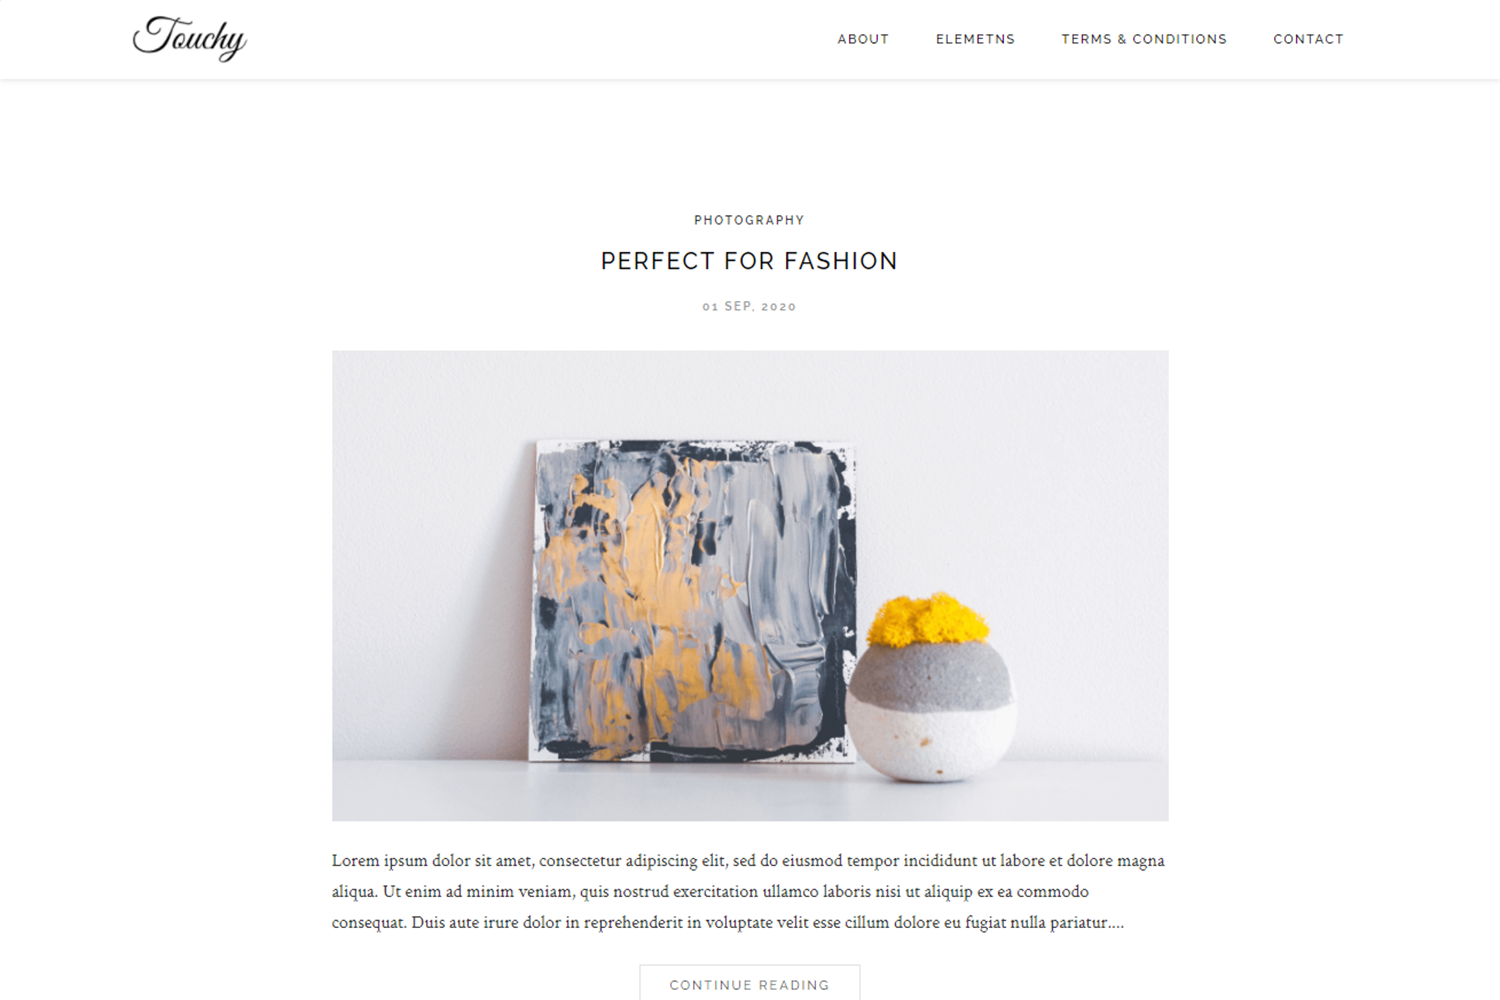
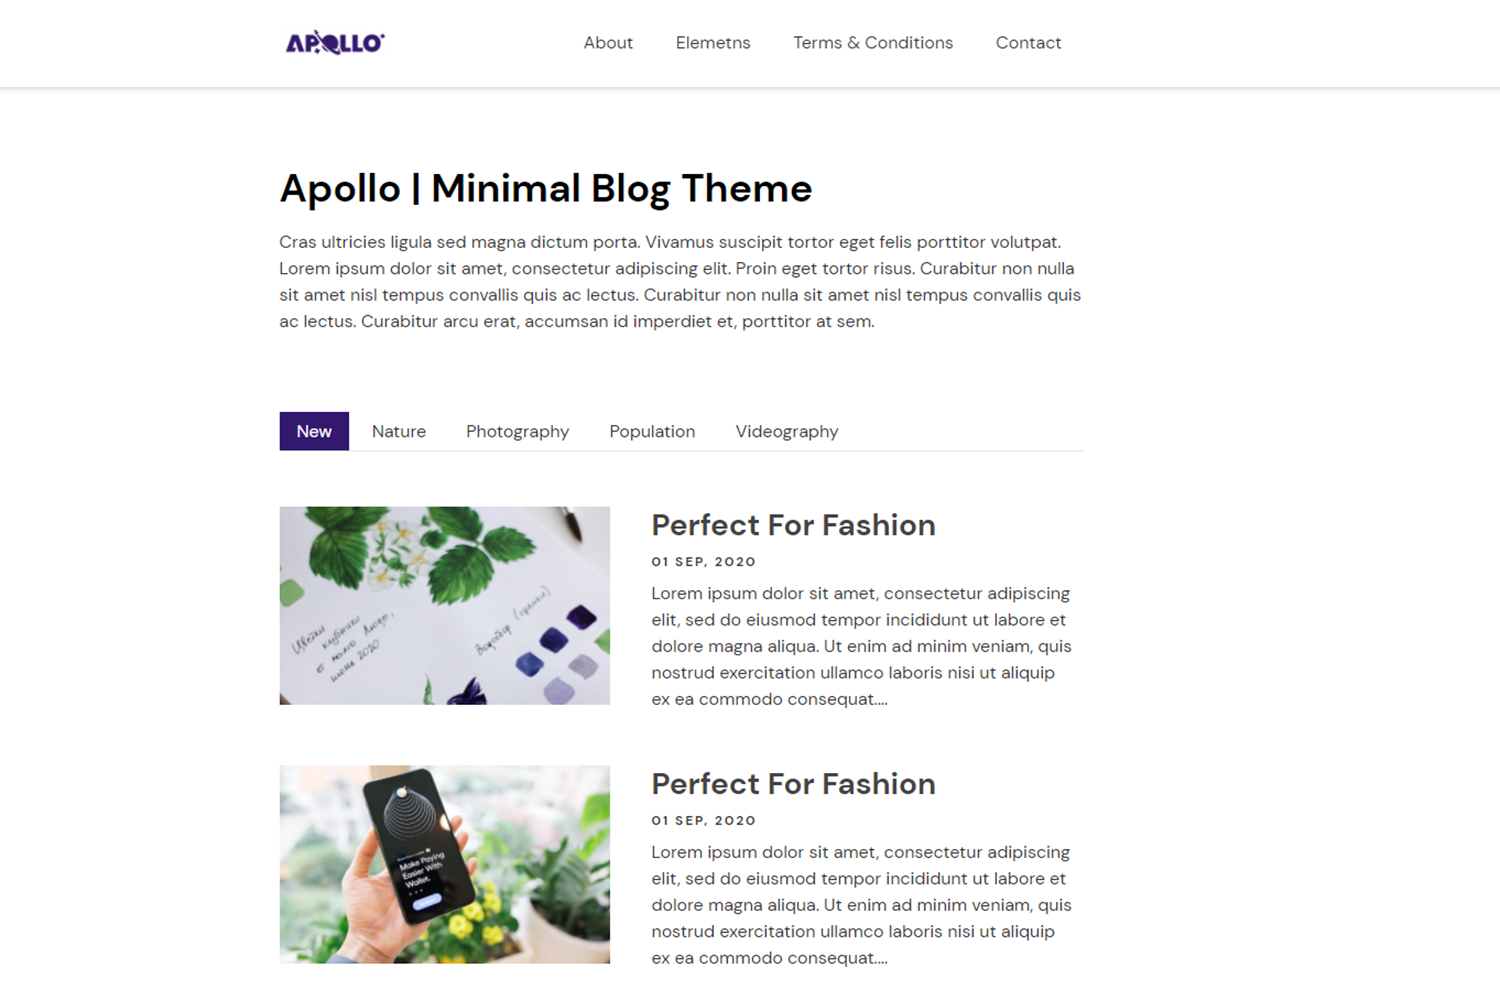
rename everywhere

diff --git a/assets/scss/_post.scss b/assets/scss/_post.scss
@@ -182,7 +182,7 @@ a.post-title:hover {
   li{
     margin: 0 !important;
     a{
-      padding: 5px 10px;
+      padding: 5px 15px;
       display: block;
       border: 1px solid transparent;
       border-bottom: 0;

diff --git a/README.md b/README.md
@@ -1,4 +1,4 @@
-# Touchy Hugo Blog Startup
+# Apollo Hugo Blog Startup
 
 A clean and minimal Hugo blog theme for single author. This theme can showcase your blog in a smooth way. This theme is also 100% mobile responsive, powered by bootstrap.
 
@@ -17,16 +17,16 @@ A clean and minimal Hugo blog theme for single author. This theme can showcase y
 <!-- demo -->
 ## Example Site
 
-![touchy](images/screenshot.png)
+![apollo](images/screenshot.png)
 
-👉Check out [Live Demo](http://demo.gethugothemes.com/touchy/)
+👉Check out [Live Demo](http://demo.gethugothemes.com/apollo/)
 
 <!-- easy setup -->
 ## Easy Setup (Hugo + Netlify + Forestry)
-Build your website with **Touchy Hugo** theme by following these easy steps(No Coding Required!)
+Build your website with **apollo Hugo** theme by following these easy steps(No Coding Required!)
 
 _Checkout this video tutorial_
-<a href="https://youtu.be/ResipmZmpDU" target="_blank" title="touchy hugo installation" rel="nofollow"><img width="100%" src="https://user-images.githubusercontent.com/37659754/103056582-88270880-45c7-11eb-9124-ab17bae951ec.png"></a>
+<a href="https://youtu.be/ResipmZmpDU" target="_blank" title="apollo hugo installation" rel="nofollow"><img width="100%" src="https://user-images.githubusercontent.com/37659754/103056582-88270880-45c7-11eb-9124-ab17bae951ec.png"></a>
 
 In this tutorial, we will show you to make your website live without buying any hosting and touching a single line of code.
 
@@ -36,20 +36,20 @@ In this tutorial, we will show you to make your website live without buying any 
 3. [Forestry](https://forestry.io) account to maintain whole project without code.
 
 ### Step 1 : Fork the repository
-First we will fork this [Touchy Hugo](https://github.com/gethugothemes/touchy-hugo) template.
+First we will fork this [apollo Hugo](https://github.com/gethugothemes/apollo-hugo) template.
 
 ### Step 2 : Add your repository in Forestry
 Go to your [Forestry](https://forestry.io) account and click on `import your site now`.
 
-**Or just click this button for import to forestry** [![import to forestry](https://assets.forestry.io/import-to-forestryK.svg)](https://app.forestry.io/quick-start?repo=gethugothemes/touchy-hugo&engine=hugo&version=0.60.1&config=exampleSite) **and 
+**Or just click this button for import to forestry** [![import to forestry](https://assets.forestry.io/import-to-forestryK.svg)](https://app.forestry.io/quick-start?repo=gethugothemes/apollo-hugo&engine=hugo&version=0.60.1&config=exampleSite) **and 
 declare your config.toml file from `exampleSite` directory and fill up basic settings.**
 
 Now mark everything as done. Then go to configuration to change the base url. You can put any url but this have to be similar as netlify. So, for now, put a name which you are going to put in netlify as netlify subdomain.
 
 ### Step 3 : Setup and host website with Netlify
-Here comes the last step . Go to your [netlify](https://netlify.com) account and click add new site . Choose your git repository to import your website in netlify .  And now you can see the forked `touchy hugo` theme. select it and follow the steps. Then go to `site settings` for change the site name. save it and go to `deploy` from top menu, Wait a while and click on `site preview` or just simply go to the subdomain you puted as base url.
+Here comes the last step . Go to your [netlify](https://netlify.com) account and click add new site . Choose your git repository to import your website in netlify .  And now you can see the forked `apollo hugo` theme. select it and follow the steps. Then go to `site settings` for change the site name. save it and go to `deploy` from top menu, Wait a while and click on `site preview` or just simply go to the subdomain you puted as base url.
 
-**Or just click this button to connect netlify** [![Deploy to Netlify](https://www.netlify.com/img/deploy/button.svg)](https://app.netlify.com/start/deploy?repository=https://github.com/gethugothemes/touchy-hugo)
+**Or just click this button to connect netlify** [![Deploy to Netlify](https://www.netlify.com/img/deploy/button.svg)](https://app.netlify.com/start/deploy?repository=https://github.com/gethugothemes/apollo-hugo)
 
 **BOOM! Your site is live.** Now you can go to forestry and add, remove or customize every setting and content.
 
@@ -59,20 +59,20 @@ At the top we have shown an easy hugo installation. But if you still think you w
 
 * Clone the repository
 ```
-$ git clone git@github.com:gethugothemes/touchy-hugo.git
+$ git clone git@github.com:gethugothemes/apollo-hugo.git
 ```
 
 * Go to exampleSite and run hugo server
 ```
-$ cd touchy-hugo/exampleSite/
+$ cd apollo-hugo/exampleSite/
 $ hugo server --themesDir ../..
 ```
-Or Check out [Full Documentation](https://docs.gethugothemes.com/touchy/?ref=github).
+Or Check out [Full Documentation](https://docs.gethugothemes.com/apollo/?ref=github).
 
 <!-- reporting issue -->
 ## Reporting Issues
-We use GitHub Issues as the official bug tracker for the Touchy Template. Please Search [existing issues](https://github.com/gethugothemes/touchy-hugo/issues). It’s possible someone has already reported the same problem.
-If your problem or idea has not been addressed yet, feel free to [open a new issue](https://github.com/gethugothemes/touchy-hugo/issues).
+We use GitHub Issues as the official bug tracker for the apollo Template. Please Search [existing issues](https://github.com/gethugothemes/apollo-hugo/issues). It’s possible someone has already reported the same problem.
+If your problem or idea has not been addressed yet, feel free to [open a new issue](https://github.com/gethugothemes/apollo-hugo/issues).
 
 <!-- support -->
 ## Technical Support or Questions (Paid)
@@ -82,7 +82,7 @@ If you have questions or need help integrating the product please [contact us](m
 ## License
 Copyright &copy; 2020 Designed by [Themefisher](https://themefisher.com) & Developed by [Gethugothemes](https://gethugothemes.com)
 
-**Code License:** Released under the [MIT](https://github.com/gethugothemes/touchy-hugo/blob/master/LICENSE) license.
+**Code License:** Released under the [MIT](https://github.com/gethugothemes/apollo-hugo/blob/master/LICENSE) license.
 
 **Image license:** The images are only for demonstration purposes. They have their own licence, we don't have permission to share those image.
 

diff --git a/exampleSite/content/post/post-4.md b/exampleSite/content/post/post-4.md
@@ -1,5 +1,5 @@
 ---
-title: "The World Ppopulation"
+title: "The World Population"
 date: 2020-09-01T11:07:10+06:00
 image: "images/blog/blog-4.jpg"
 image_webp: "images/blog/blog-4.webp"

diff --git a/exampleSite/content/post/post-8.md b/exampleSite/content/post/post-8.md
@@ -1,5 +1,5 @@
 ---
-title: "The World Ppopulation"
+title: "The World Population"
 date: 2020-09-01T11:07:10+06:00
 image: "images/blog/blog-8.jpg"
 image_webp: "images/blog/blog-8.webp"
